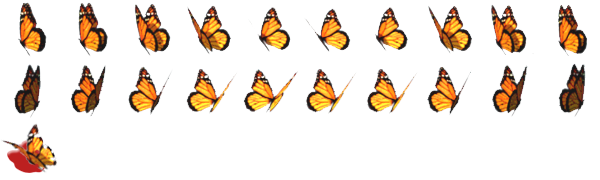
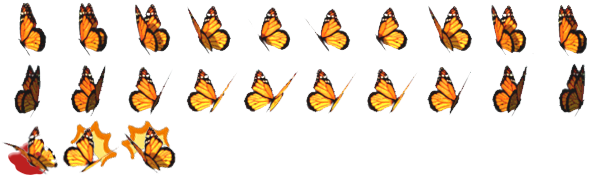
[정혜진] 나비, 모기 공격 맞았을 때 이미지 변경

Changed region(s): [[0.0, 0.6667, 0.3, 0.9722]]

diff --git a/src/com/newlecture/mosquito/entity/Mosquito.java b/src/com/newlecture/mosquito/entity/Mosquito.java
@@ -10,82 +10,89 @@ import com.newlecture.mosquito.canvas.StageCanvas;
 import com.newlecture.mosquito.service.ImageLoader;
 
 public class Mosquito extends Bug {
-	
-	
+
 	private int deleteTimer = 60;
 
-	private Random rand=new Random();	
-	//모기 스탯변수
+	private Random rand = new Random();
+	// 모기 스탯변수
 	private int power;
-	
-	//생성자
+
+	// 생성자
 	public Mosquito() {
-	//	this(100,100); //랜덤값으로 수정
+		// this(100,100); //랜덤값으로 수정
 		super();
 		// 실제 전시 크기
 		this.setWidth(60);
 		this.setHeight(60);
-		
+
 		// 실제 파일에서의 이미지 크기 (ex: 모기가 가로로 10개인 이미지에서 모기 하나당 width가 320인거임)
 		this.setImgWidth(320);
 		this.setImgHeight(270);
-		
-		// 방향 전환 시 필요한 이미지 간격 
-		// (ex : imgDirection=270이면 왼쪽방향 이미지와 오른쪽 방향 이미지 위치 차이가 270인격) 
+
+		// 방향 전환 시 필요한 이미지 간격
+		// (ex : imgDirection=270이면 왼쪽방향 이미지와 오른쪽 방향 이미지 위치 차이가 270인격)
 		this.setImgDirection(270);
-		
+
 		setImg(ImageLoader.mosquito);
-		this.setDirection((int)this.getImgHeight());
-	}	
-	
-//	//페인트 함수
+		this.setDirection((int) this.getImgHeight());
+	}
+
+	// //페인트 함수
 	public void paint(Graphics g) {
 		// 우리가 화면에 전시할 모기 크기 ex:60
-		int w = (int)this.getWidth();			
-		int h = (int)this.getHeight();		
-		
+		int w = (int) this.getWidth();
+		int h = (int) this.getHeight();
+
 		// 중심 좌표로 맞출거임
-		int x1 = (int)this.getX() - w/2;
-		int y1 = (int)this.getY() - h/2;
-		int x2 = x1 + w; 					//+ 60;
+		int x1 = (int) this.getX() - w / 2;
+		int y1 = (int) this.getY() - h / 2;
+		int x2 = x1 + w; // + 60;
 		int y2 = y1 + h;
-		
-		
+
 		int walkTempo = getWalkTempo();
 		int movIndex = getMovIndex();
-	
+
 		Image img = getImg();
-		
-		if(walkTempo == 0) {
+
+		if (walkTempo == 0) {
 			movIndex++;
-			movIndex = movIndex % 5; 
-			walkTempo = 3; 
-		}
-		else
+			movIndex = movIndex % 5;
+			walkTempo = 3;
+		} else
 			walkTempo--;
-		
-		int imgWidth = (int)getImgWidth();
-		int imgHeight = (int)getImgHeight();
-		
-		int offsetX = movIndex*imgWidth;
-		if(movIndex<5) 
-			offsetX-=1;
-		if(this.getCurrentDir() != 2)//살아 있을 때
-			g.drawImage(img, x1, y1, x2, y2, 
-				0+offsetX, this.getDirection(), imgWidth+offsetX, this.getDirection() + imgHeight, StageCanvas.instance);
-		else//죽었을 때
-			g.drawImage(img, x1, y1, x2, y2, 
-					0+4*imgWidth, 270*2, imgWidth+4*imgWidth, 270*2 + imgHeight, StageCanvas.instance);
-	
+
+		int imgWidth = (int) getImgWidth();
+		int imgHeight = (int) getImgHeight();
+
+		int offsetX = movIndex * imgWidth;
+		if (movIndex < 5)
+			offsetX -= 1;
+
+		if (true == isAttacked()) { // 공격 당했을 경우
+			if (this.getCurrentDir() == 0) {			// 오른쪽
+				g.drawImage(img, x1, y1, x2, y2, 
+						imgWidth, imgHeight*2, imgWidth*2, imgHeight*3, StageCanvas.instance);		// 왼쪽 방향
+			} else {		// 왼쪽
+				g.drawImage(img, x1, y1, x2, y2, 
+						0, imgHeight*2, imgWidth, imgHeight*3, StageCanvas.instance);				// 오른쪽 방향
+			}
+		} else { 					// 평상시
+			if (this.getCurrentDir() != 2)// 살아 있을 때
+				g.drawImage(img, x1, y1, x2, y2, 0 + offsetX, this.getDirection(), imgWidth + offsetX,
+						this.getDirection() + imgHeight, StageCanvas.instance);
+			else// 죽었을 때
+				g.drawImage(img, x1, y1, x2, y2, 0 + 4 * imgWidth, 270 * 2, imgWidth + 4 * imgWidth,
+						270 * 2 + imgHeight, StageCanvas.instance);
+		}
+
 		setWalkTempo(walkTempo);
 		setMovIndex(movIndex);
 	}
-	
-	
-	//공격함수
+
+	// 공격함수
 	public void attack() {
 		int power = this.power;
-		power = 1; //변수 처리
+		power = 1; // 변수 처리
 	}
 
 	public int getDeleteTimer() {
@@ -95,6 +102,5 @@ public class Mosquito extends Bug {
 	public void setDeleteTimer(int deleteTimer) {
 		this.deleteTimer = deleteTimer;
 	}
-	
-	
+
 }

diff --git a/src/com/newlecture/mosquito/entity/Bug.java b/src/com/newlecture/mosquito/entity/Bug.java
@@ -26,7 +26,8 @@ public abstract class Bug{
 	private double imgWidth;		// 이미지 파일에서 그릴 이미지의 width
 	private double imgHeight;		// 이미지 파일에서 그릴 이미지의 height
 	
-	private int timeoutForMoving=30;
+	private int timeoutForMoving = 30;
+	private int timeoutForAttack = 20;		//공격 이미지 변경 시 시간 체크를 위함
 	private int movIndex ;
 	private int speed ;
 	private int walkTempo ;
@@ -35,6 +36,7 @@ public abstract class Bug{
 	private int imgDirection;		// 방향이 바뀔때 imgDirection기준으로 그릴 이미지가 변경 됨
 	private int currentDir;
 
+	private boolean isAttacked;		// 공격 당했을 때 일정 시간동안 잠깐 이미지를 바꾸기 때문에 상태 변수가 필요함 
 	
 	private Random rand = new Random();
 	
@@ -115,12 +117,24 @@ public abstract class Bug{
 			y += vy;
 		}
 		
+		if(true == isAttacked) {
+			timeoutForAttack--;
+			if (timeoutForAttack == 0) {
+				isAttacked = false;
+				timeoutForAttack = 30;
+			}
+		}
 
 	}
 	
 	
 	public abstract void paint(Graphics g);
 	
+
+	public void chageAttackImg() {
+		// TODO Auto-generated method stub
+		isAttacked = true;
+	}
 	
 
 	public double getX() {
@@ -280,7 +294,11 @@ public abstract class Bug{
 	public void setCurrentDir(int currentDir) {
 		this.currentDir = currentDir;
 	}
-	
+
+
+	public boolean isAttacked() {
+		return isAttacked;
+	}
 	
 }
 

diff --git a/src/com/newlecture/mosquito/entity/Butterfly.java b/src/com/newlecture/mosquito/entity/Butterfly.java
@@ -91,13 +91,23 @@ public class Butterfly extends Bug {
 		
 		int offsetX = movIndex * imgWidth;
 		
-		
-		if(this.getCurrentDir() != 2)
-			g.drawImage(img, x1, y1, x2, y2, 
-					0 + offsetX, this.getDirection() , 0 + imgWidth + offsetX, this.getDirection() + imgHeight, StageCanvas.instance);
-		else
-			g.drawImage(img, x1, y1, x2, y2, 
-					0, imgHeight*2 , 0 + imgWidth, 3*imgHeight, StageCanvas.instance);
+		if( true == isAttacked() ) {		// 공격 당했을 경우		
+			if (this.getCurrentDir() == 0) {					// 왼쪽 방향	
+				g.drawImage(img, x1, y1, x2, y2, 
+						imgWidth*2, imgHeight*2 , imgWidth*3, imgHeight*3, StageCanvas.instance);			
+			} else {											// 오른쪽 방향
+				g.drawImage(img, x1, y1, x2, y2, 
+						imgWidth, imgHeight*2 , imgWidth*2, imgHeight*3, StageCanvas.instance);
+			}
+		} else {		// 평상시
+			if(this.getCurrentDir() != 2)
+				g.drawImage(img, x1, y1, x2, y2, 
+						0 + offsetX, this.getDirection() , 0 + imgWidth + offsetX, this.getDirection() + imgHeight, StageCanvas.instance);
+			else
+				g.drawImage(img, x1, y1, x2, y2, 
+						0, imgHeight*2 , 0 + imgWidth, 3*imgHeight, StageCanvas.instance);
+		}
+	
 			
 		setWalkTempo(movTempo);
 		setMovIndex(movIndex);

diff --git a/src/com/newlecture/mosquito/entity/Player.java b/src/com/newlecture/mosquito/entity/Player.java
@@ -41,6 +41,8 @@ public class Player {
 	
 	public boolean attack(Bug bug) {
 		
+		bug.chageAttackImg();
+		
 		//무기 확률 체크
 		double prob = Math.random();//0~1 랜덤 실수
 		if(prob <= currentWp.getProb()) {
@@ -54,7 +56,7 @@ public class Player {
 			//System.out.println("모기 죽이기 ㄴ실패");
 			return true;
 		}
-
+		
 		//currentwp.~~~~~~~~~();
 		//mosq.attak(30);		// 해당 모기의 체력을 30 감소시킨당
 	}

diff --git a/src/com/newlecture/mosquito/service/StageService.java b/src/com/newlecture/mosquito/service/StageService.java
@@ -63,6 +63,7 @@ public class StageService {
 			currentStage = Dat
 		}*/
 	}
+	
 	public void update() {//스레드에서 계속 호출
 		int mosqCreateCount = stage.getMosqCreateCount();
 		int buttCreateCount = stage.getButtCreateCount();
